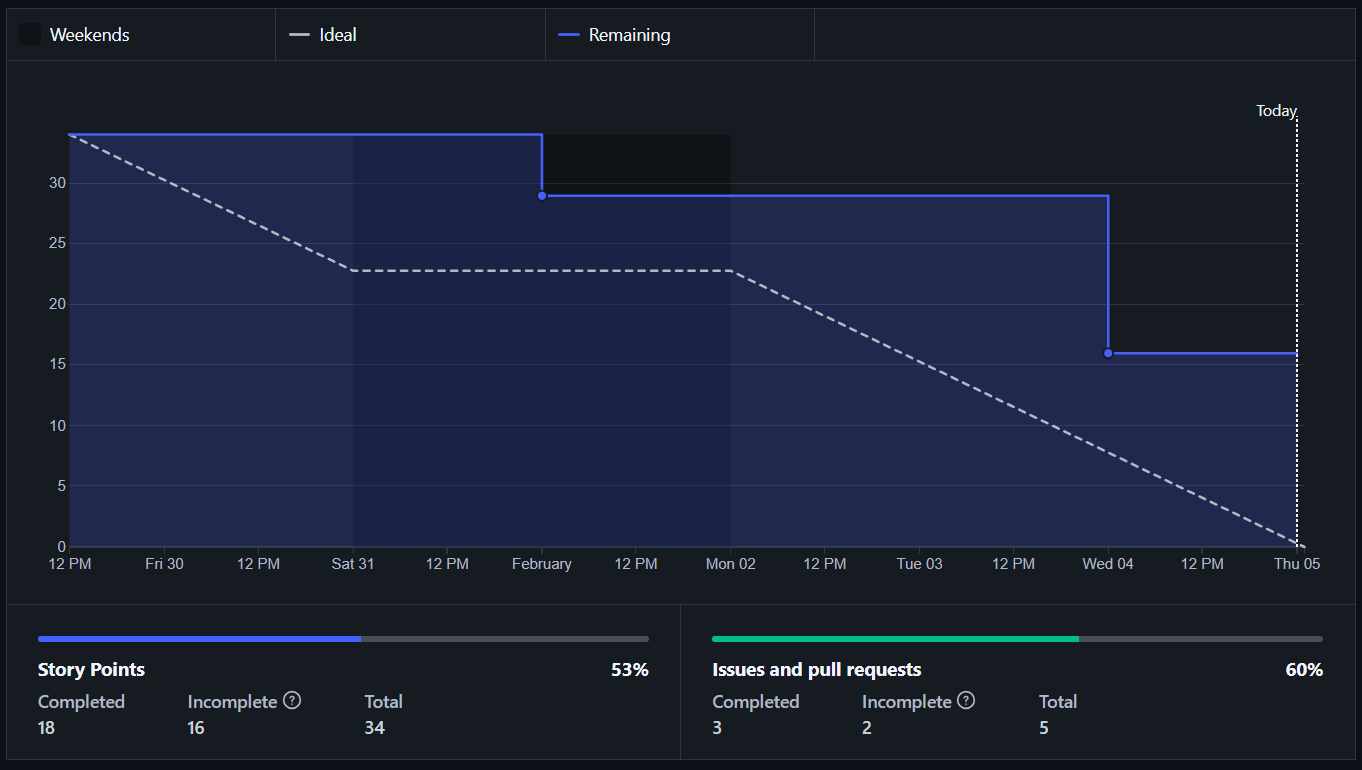
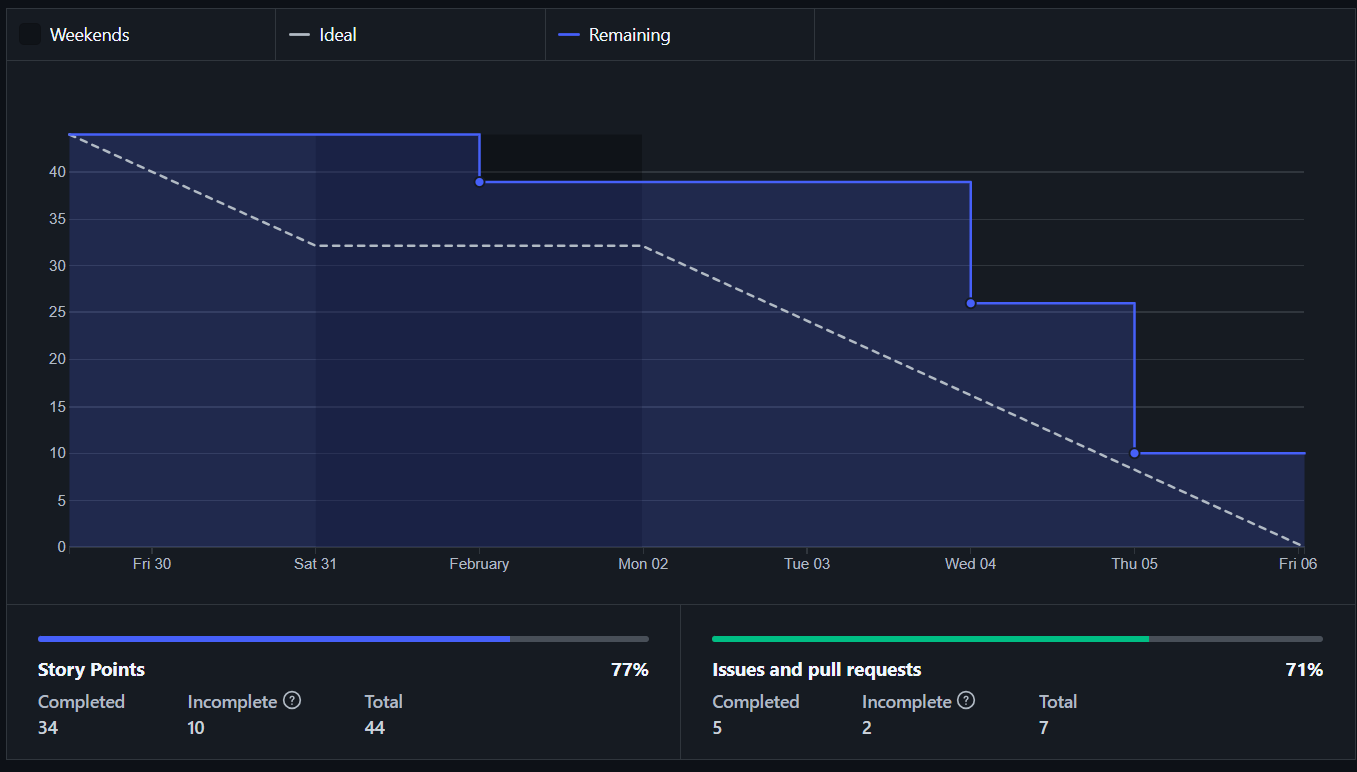
Sprint 15 de los anexos e introducción viabilidad

diff --git a/docs/LaTex/tex/A_Plan_proyecto.tex b/docs/LaTex/tex/A_Plan_proyecto.tex
@@ -350,11 +350,33 @@ El \textit{burndown} de este \textit{sprint} se ilustra en la figura~\ref{fig:Bu
 \imagenflotante{Burndown/Sprint14}{\textit{Burndown chart} del \textit{sprint} 14.}
 
 \subsection{\textit{Sprint} 15 (29/01/2025 - 05/02/2026)}
-El objetivo principal del \href{https://github.com/lbr1014/TFG_RAG/milestone/15?closed=1}{Sprint 15} fue levantar mi aplicación \textit{Flask} usando un \textit{docker}.
+El objetivo principal del \href{https://github.com/lbr1014/TFG_RAG/milestone/15?closed=1}{Sprint 15} fue levantar mi aplicación \textit{Flask} usando \textit{docker}. En la reunión se decidió implementar un \textit{docker} ya que mejora la potabilidad, la ligereza y el aislamiento de la aplicación. Para llevar a cabo estos objetivos se plantearon las siguientes tareas:
+\begin{itemize}
+\tightlist
+	\item Implementar un \textit{docker} para la aplicación \textit{Flask}.
+	\begin{itemize}
+	\tightlist
+		\item Estudiar como desplegar la aplicación \textit{web}.
+		\item Arreglar la indexación de documentos para usar el \textit{docker}.
+		\item Arreglo de \textit{Web Scraping} para evitar fallos por perdida de conexión.
+	\end{itemize}
+	\item Empezar a escribir la viabilidad económica.
+	\item Completar los \textit{test} unitarios realizados previamente.
+	\item Realiza \textit{test} unitarios para las nuevas clases.
+\end{itemize}
+
+Para realizar el \textit{sprint} se estimaron 34 horas de trabajo. Al final de este \textit{sprint} se invirtieron unas 40 horas, pero, no se completaron todas las tareas, quedando incompletas las tareas <<Completar los \textit{test} unitarios realizados previamente>> y <<Realiza \textit{test} unitarios para las nuevas clases>>. Esto se debió a que la implementación de \textit{docker} llevo más tiempo del esperado por fallos en la conexión con el módulo de \textit{qdrant}. Las tareas incompletas se van a llevar a cabo en el siguiente \textit{sprint}.
+
+El \textit{burndown} de este \textit{sprint} se ilustra en la figura~\ref{fig:Burndown/Sprint15}.
+\imagenflotante{Burndown/Sprint15}{\textit{Burndown chart} del \textit{sprint} 15.}
+
+\subsection{\textit{Sprint} 16 (05/02/2025 - 12/02/2026)}
+El objetivo principal del \href{https://github.com/lbr1014/TFG_RAG/milestone/16?closed=1}{Sprint 16} fue
 
 \section{Estudio de viabilidad}
+El estudio de viabilidad es un análisis detallado que se realiza antes de iniciar un proyecto. Sirve para determinar la rentabilidad de ese proyecto, es decir, si se pude hacer realidad. Para ello se analiza si es económicamente rentable (sección~\hyperref[viabilidad_economica]{A.3.1}) y legalmente viable (sección~\hyperref[viabilidad_legal]{A.3.2}). 
 
-\subsection{Viabilidad económica}
+\subsection{Viabilidad económica}\label{viabilidad_economica}
 Para analizar la viabilidad económica se ha seguido el coste total de propiedad (TCO)~\cite{book:TCO_costs}. El TCO consiste en identificar y estimar todos los costes asociados al ciclo de vida de un producto tecnológico, no solo los costes directos de su adquisición, sino también los derivados de su operación, mantenimiento y uso a lo largo del tiempo. De esta forma, se obtiene una visión global y realista del impacto económico del sistema. Los costes considerados vienen recogidos en la tabla~\ref{tabla:explicacion_TCO}.
 
 \begin{table}[h]
@@ -467,6 +489,6 @@ Los costes totales del proyecto vienen desglosados en la siguiente tabla~\ref{ta
 	\label{tabla:coste}
 \end{table}
 
-\subsection{Viabilidad legal}
+\subsection{Viabilidad legal}\label{viabilidad_legal}
 
 

diff --git a/docs/LaTex/tex/B_Requisitos.tex b/docs/LaTex/tex/B_Requisitos.tex
@@ -4,7 +4,6 @@
 
 
 
-
 \section{Objetivos generales}
 
 Los objetivos generales que se buscan cumplir con este proyecto son: